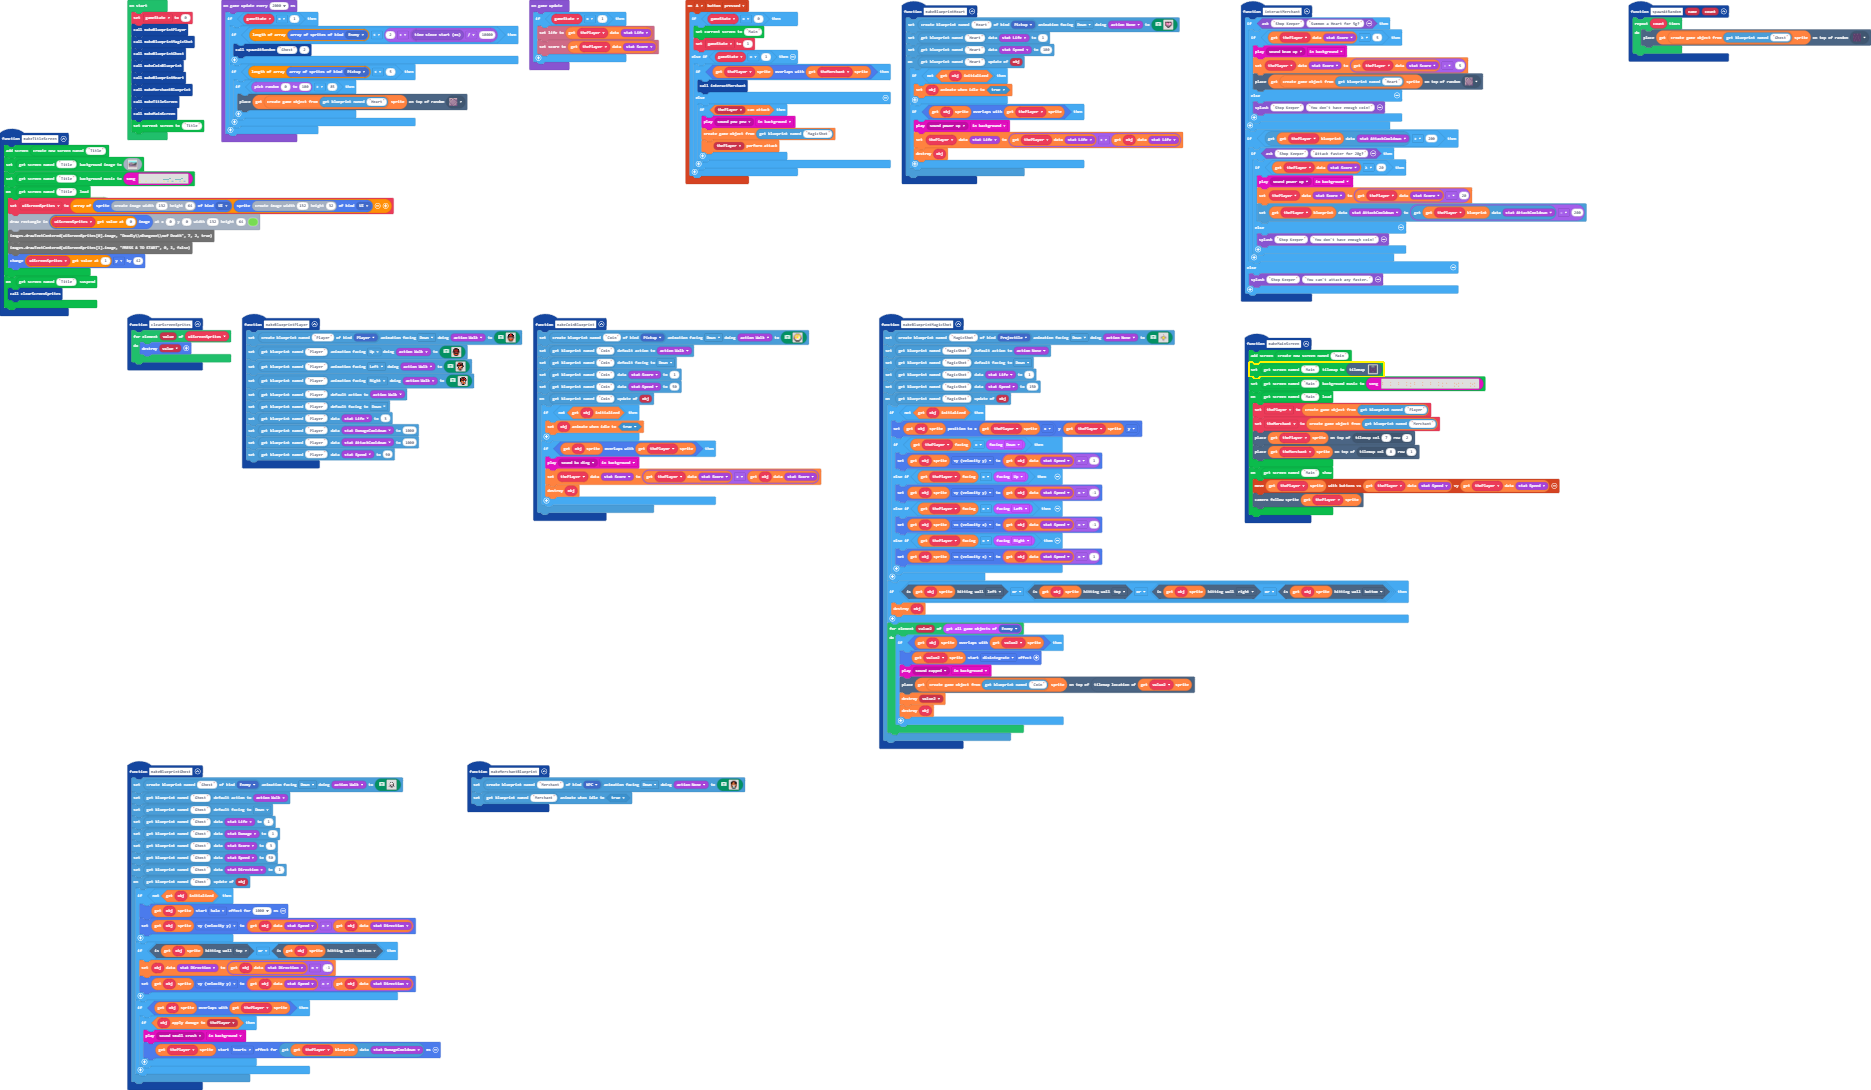
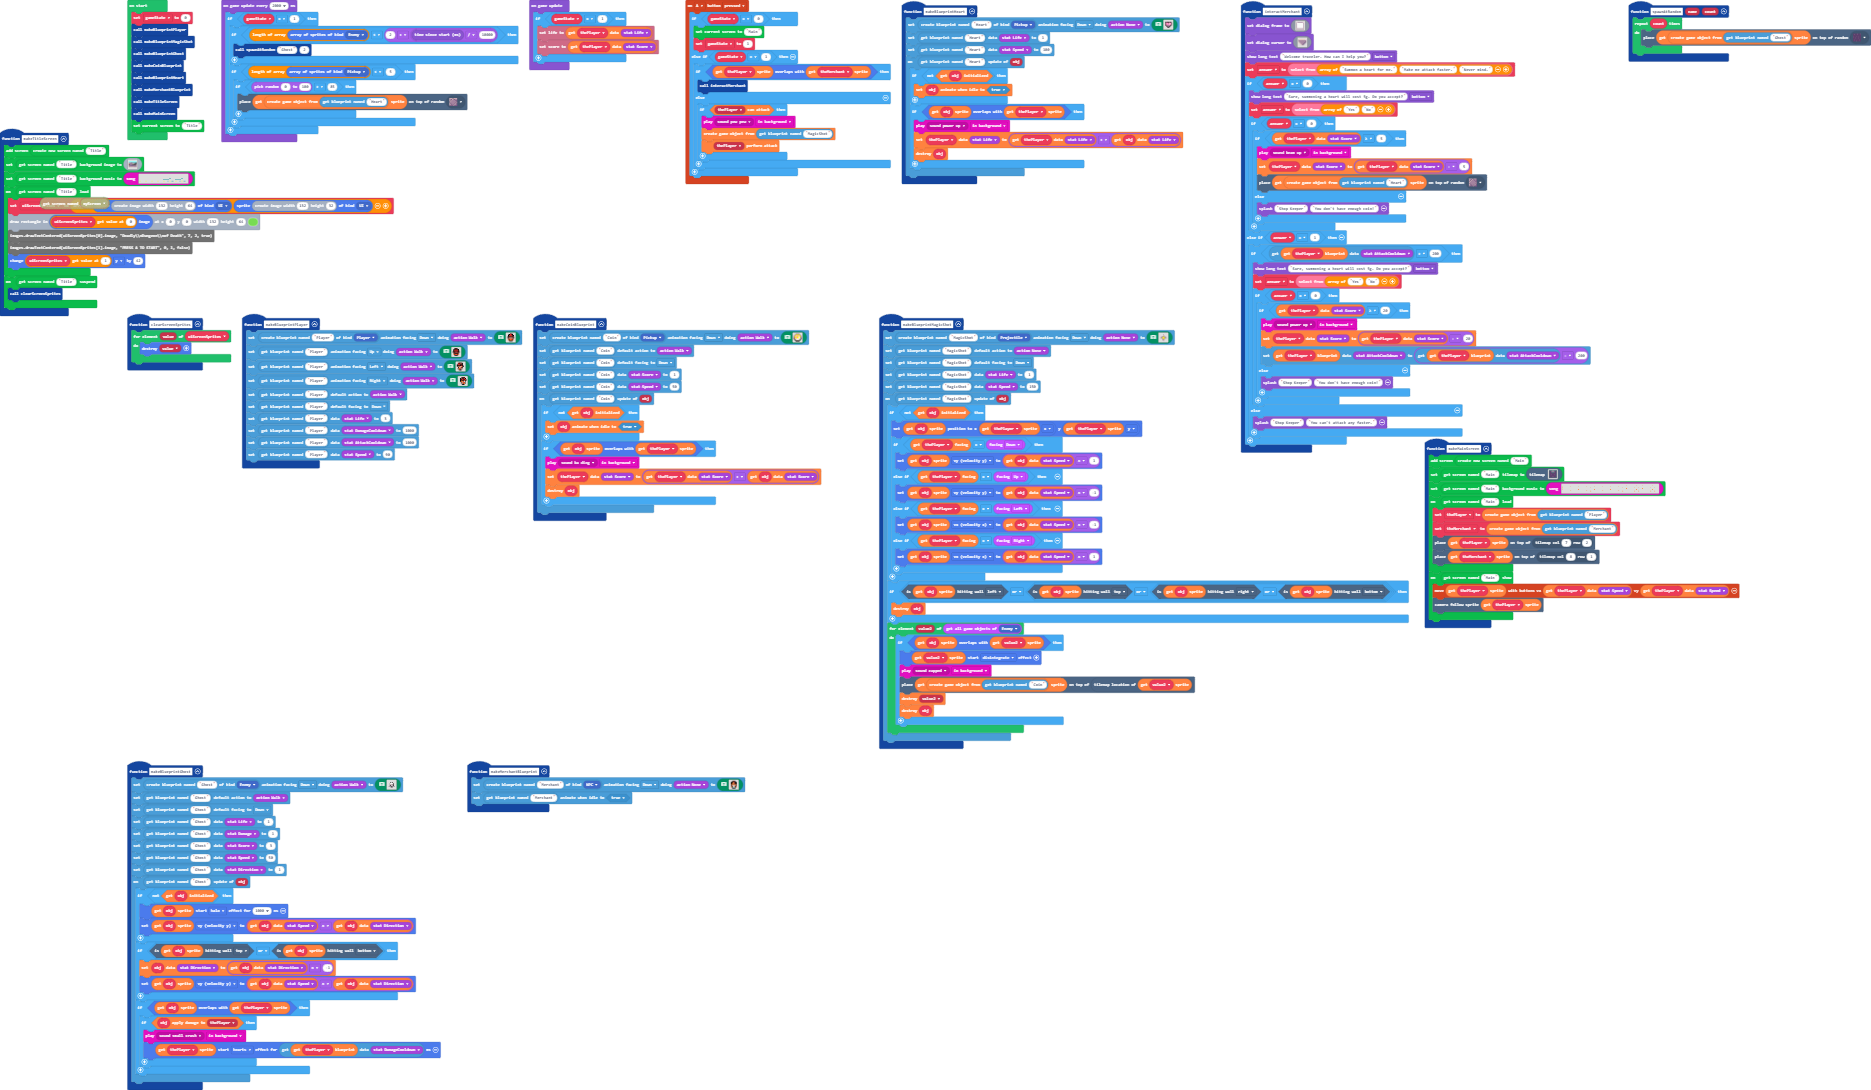
Updated to latest PuppyBreath

Changed region(s): [[0.651, 0.0, 0.93, 0.5927], [0.031, 0.156, 0.062, 0.2183]]

diff --git a/main.ts b/main.ts
@@ -107,27 +107,71 @@ function makeBlueprintHeart () {
     })
 }
 function interactMerchant () {
-    if (game.ask("Shop Keeper", "Summon a Heart for 5g?")) {
-        if (thePlayer.getDataValue(DataKind.Score) >= 5) {
-            music.play(music.melodyPlayable(music.beamUp), music.PlaybackMode.InBackground)
-            thePlayer.setDataValue(DataKind.Score, thePlayer.getDataValue(DataKind.Score) - 5)
-            tiles.placeOnRandomTile(gameObjects.createGameObject(blueprints.getBlueprint("Heart")).getSprite(), sprites.dungeon.floorDarkDiamond)
-        } else {
-            game.splash("Shop Keeper", "You don't have enough coin!")
-        }
-    }
-    if (thePlayer.getBlueprint().getDataValue(DataKind.AttackCooldown) > 200) {
-        if (game.ask("Shop Keeper", "Attack faster for 20g?")) {
-            if (thePlayer.getDataValue(DataKind.Score) >= 20) {
-                music.play(music.melodyPlayable(music.powerUp), music.PlaybackMode.InBackground)
-                thePlayer.setDataValue(DataKind.Score, thePlayer.getDataValue(DataKind.Score) - 20)
-                thePlayer.getBlueprint().setDataValue(DataKind.AttackCooldown, thePlayer.getBlueprint().getDataValue(DataKind.AttackCooldown) - 200)
+    game.setDialogFrame(img`
+        ..bbbbbbbbbbbbbbbbbbbb..
+        .bd111111111111111111db.
+        bd1dbbbbbbbbbbbbbbbbd1db
+        b1dbbbbbbbbbbbbbbbbbbd1b
+        b1bd1111111111111111db1b
+        b1b111111111111111111b1b
+        b1b111111111111111111b1b
+        b1b111111111111111111b1b
+        b1b111111111111111111b1b
+        b1b111111111111111111b1b
+        b1b111111111111111111b1b
+        b1b111111111111111111b1b
+        b1b111111111111111111b1b
+        b1b111111111111111111b1b
+        b1b111111111111111111b1b
+        b1b111111111111111111b1b
+        b1b111111111111111111b1b
+        b1b111111111111111111b1b
+        b1b111111111111111111b1b
+        b1bd1111111111111111db1b
+        bd1bbbbbbbbbbbbbbbbbb1db
+        bbd111111111111111111dbb
+        .bbbbbbbbbbbbbbbbbbbbbb.
+        ..bbbbbbbbbbbbbbbbbbbb..
+        `)
+    game.setDialogCursor(img`
+        . d d d d d d d . 
+        b b b b b b b b b 
+        b b b b b b b b b 
+        d b b b b b b b c 
+        . d b b b b b c . 
+        . . d b b b c . . 
+        . . . d b c . . . 
+        `)
+    game.showLongText("Welcome traveler. How can I help you?", DialogLayout.Bottom)
+    answer = dialogs.selectChoice(["Summon a heart for me.", "Make me attack faster.", "Never mind."])
+    if (answer == 0) {
+        game.showLongText("Sure, summoning a heart will cost 5g. Do you accept?", DialogLayout.Bottom)
+        answer = dialogs.selectChoice(["Yes", "No"])
+        if (answer == 0) {
+            if (thePlayer.getDataValue(DataKind.Score) >= 5) {
+                music.play(music.melodyPlayable(music.beamUp), music.PlaybackMode.InBackground)
+                thePlayer.setDataValue(DataKind.Score, thePlayer.getDataValue(DataKind.Score) - 5)
+                tiles.placeOnRandomTile(gameObjects.createGameObject(blueprints.getBlueprint("Heart")).getSprite(), sprites.dungeon.floorDarkDiamond)
             } else {
                 game.splash("Shop Keeper", "You don't have enough coin!")
             }
         }
-    } else {
-        game.splash("Shop Keeper", "You can't attack any faster.")
+    } else if (answer == 1) {
+        if (thePlayer.getBlueprint().getDataValue(DataKind.AttackCooldown) > 200) {
+            game.showLongText("Sure, summoning a heart will cost 5g. Do you accept?", DialogLayout.Bottom)
+            answer = dialogs.selectChoice(["Yes", "No"])
+            if (answer == 0) {
+                if (thePlayer.getDataValue(DataKind.Score) >= 20) {
+                    music.play(music.melodyPlayable(music.powerUp), music.PlaybackMode.InBackground)
+                    thePlayer.setDataValue(DataKind.Score, thePlayer.getDataValue(DataKind.Score) - 20)
+                    thePlayer.getBlueprint().setDataValue(DataKind.AttackCooldown, thePlayer.getBlueprint().getDataValue(DataKind.AttackCooldown) - 200)
+                } else {
+                    game.splash("Shop Keeper", "You don't have enough coin!")
+                }
+            }
+        } else {
+            game.splash("Shop Keeper", "You can't attack any faster.")
+        }
     }
 }
 function spawnAtRandom (name: string, count: number) {
@@ -929,6 +973,7 @@ function makeMerchantBlueprint () {
 }
 let theMerchant: GameObject = null
 let uiScreenSprites: Sprite[] = []
+let answer = 0
 let thePlayer: GameObject = null
 let gameState = 0
 gameState = 0
